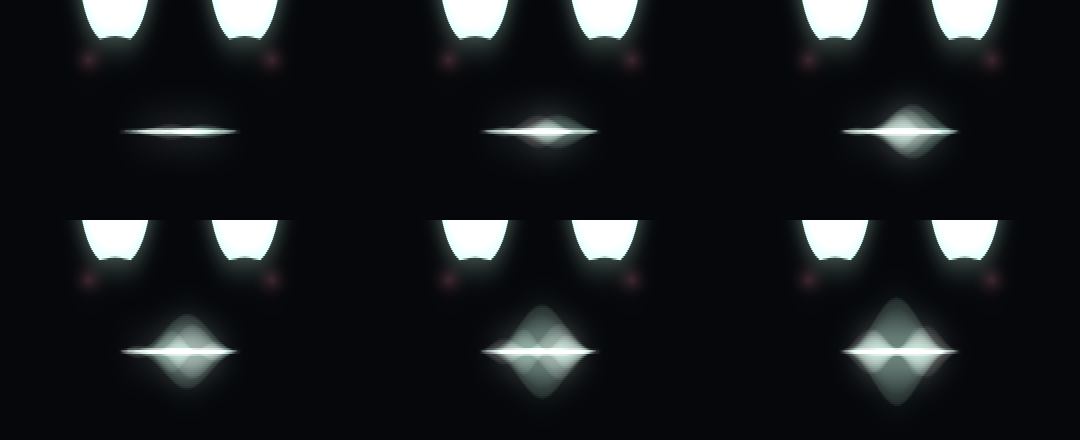
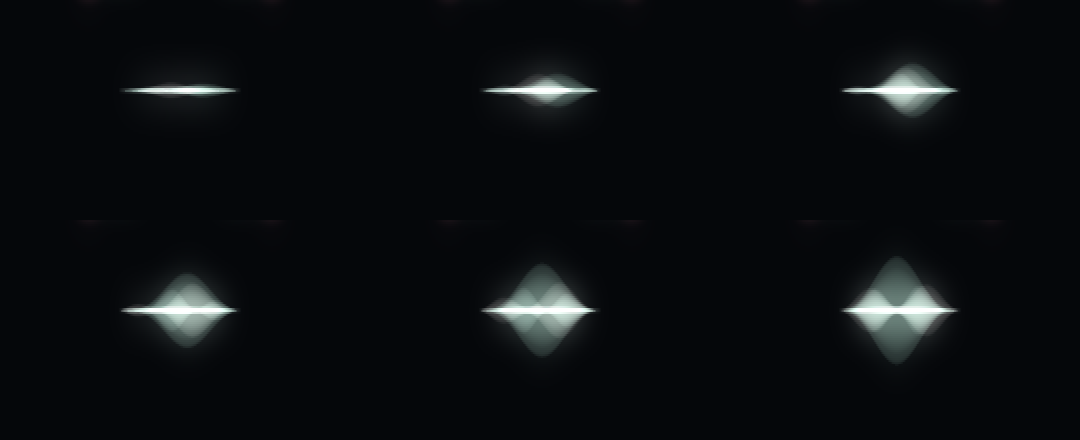
node-face: mouth lower, for human proportions (deeper on the portrait panel)

diff --git a/crates/node-face/src/draw.rs b/crates/node-face/src/draw.rs
@@ -380,7 +380,10 @@ fn voice_light(
     col: Rgb,
     size: f32,
 ) {
-    let (cx, cy) = u(0.5, 0.49 + 0.29 * size);
+    // Human proportions: the mouth sits well below the eyes, about a third of the way from them to
+    // the chin; the tall portrait panel has room to drop it further.
+    let below = if cv.h > cv.w { 0.43 } else { 0.33 };
+    let (cx, cy) = u(0.5, 0.49 + below * size);
     let t32 = t as f32;
     let speak = face.talk.clamp(0.0, 1.0);
     let listen = (face.listen * (1.0 - speak)).clamp(0.0, 1.0);

diff --git a/crates/node-face/examples/mouth.rs b/crates/node-face/examples/mouth.rs
@@ -9,7 +9,7 @@ fn main() -> anyhow::Result<()> {
         .nth(1)
         .unwrap_or_else(|| "mouth.png".into());
     let (w, h, n) = (720usize, 720usize, 6usize);
-    let (top, rows) = (430usize, 220usize); // the band of the frame the mouth is in
+    let (top, rows) = (500usize, 220usize); // the band of the frame the mouth is in
     let mut sheet = Canvas::new(w * 3 / 2, rows * 2);
     let mut cv = Canvas::new(w, h);
     for i in 0..n {
